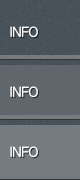
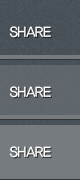
TALK와 INFO 사이에 SHARE라는 게시판 카테고리를 추가

Changed region(s): [[0.125, 0.8056, 0.65, 0.8889], [0.125, 0.4722, 0.65, 0.5556], [0.125, 0.1389, 0.65, 0.2222]]

diff --git a/warara/templates/base.html b/warara/templates/base.html
@@ -40,6 +40,7 @@
                 <li><a href="#" class="category" id="menuCategory3" rel="Category3">카테고리명</a></li>
                 <li><a href="#" class="category" id="menuCategory4" rel="Category4">카테고리명</a></li>
                 <li><a href="#" class="category" id="menuCategory5" rel="Category5">카테고리명</a></li>
+                <li><a href="#" class="category" id="menuCategory6" rel="Category6">카테고리명</a></li>
             </ul>
             <ul class="menuRight">
                 <li class="fr"><a href="/main/help" class="help">도움말</a></li>
@@ -132,6 +133,21 @@
                             {% get_board_list %}
                             <ul>
                                 {% for board_info in category5_list %}
+                                <li rel="{{forloop.counter}}"><a href="/board/{{board_info.board_name}}/">{{board_info.board_name}}</a></li>
+                                {% if forloop.counter|divisibleby:"5" %}
+                            </ul>
+                            <ul>
+                                {% endif %}
+                                {% endfor %}
+                            </ul>
+                        </dd>
+                    </dl>
+                    <dl class="boardList" id="boardInCategory6">
+                        <dt><img src="/media/image/stealBlue/catMenu_category7.png" alt="카테고리6" /></dt>
+                        <dd>
+                            {% get_board_list %}
+                            <ul>
+                                {% for board_info in category6_list %}
                                 <li rel="{{forloop.counter}}"><a href="/board/{{board_info.board_name}}/">{{board_info.board_name}}</a></li>
                                 {% if forloop.counter|divisibleby:"5" %}
                             </ul>

diff --git a/warara/media/style_new/stealBlue.css b/warara/media/style_new/stealBlue.css
@@ -29,6 +29,7 @@ a:hover { color:#333; text-decoration:underline; }
 #navigation ul.menu #menuCategory3 { background:url(/media/image/stealBlue/menu_4.png) no-repeat top left; }
 #navigation ul.menu #menuCategory4 { background:url(/media/image/stealBlue/menu_5.png) no-repeat; }
 #navigation ul.menu #menuCategory5 { background:url(/media/image/stealBlue/menu_6.png) no-repeat; }
+#navigation ul.menu #menuCategory6 { background:url(/media/image/stealBlue/menu_7.png) no-repeat; }
 
 #navigation ul.menu li a:hover { background-position:0 -60px !important; }
 #navigation ul.menu li a.selected { background-position:0 -120px !important; }

diff --git a/warara/main/templatetags/arara_tags.py b/warara/main/templatetags/arara_tags.py
@@ -31,6 +31,7 @@ class BoardListUpdateNode(template.Node):
         category3_list = []
         category4_list = []
         category5_list = []
+        category6_list = []
         for board in board_list:
             if(board.category_id==1):
                 category1_list+=[board]
@@ -42,6 +43,8 @@ class BoardListUpdateNode(template.Node):
                 category4_list.append(board)
             elif (board.category_id==5):
                 category5_list.append(board)
+            elif (board.category_id==6):
+                category6_list.append(board)
             else:
                 print "no category\n"
         context['category1_list'] = category1_list
@@ -49,6 +52,7 @@ class BoardListUpdateNode(template.Node):
         context['category3_list'] = category3_list
         context['category4_list'] = category4_list
         context['category5_list'] = category5_list
+        context['category6_list'] = category6_list
 
         return ""
 
